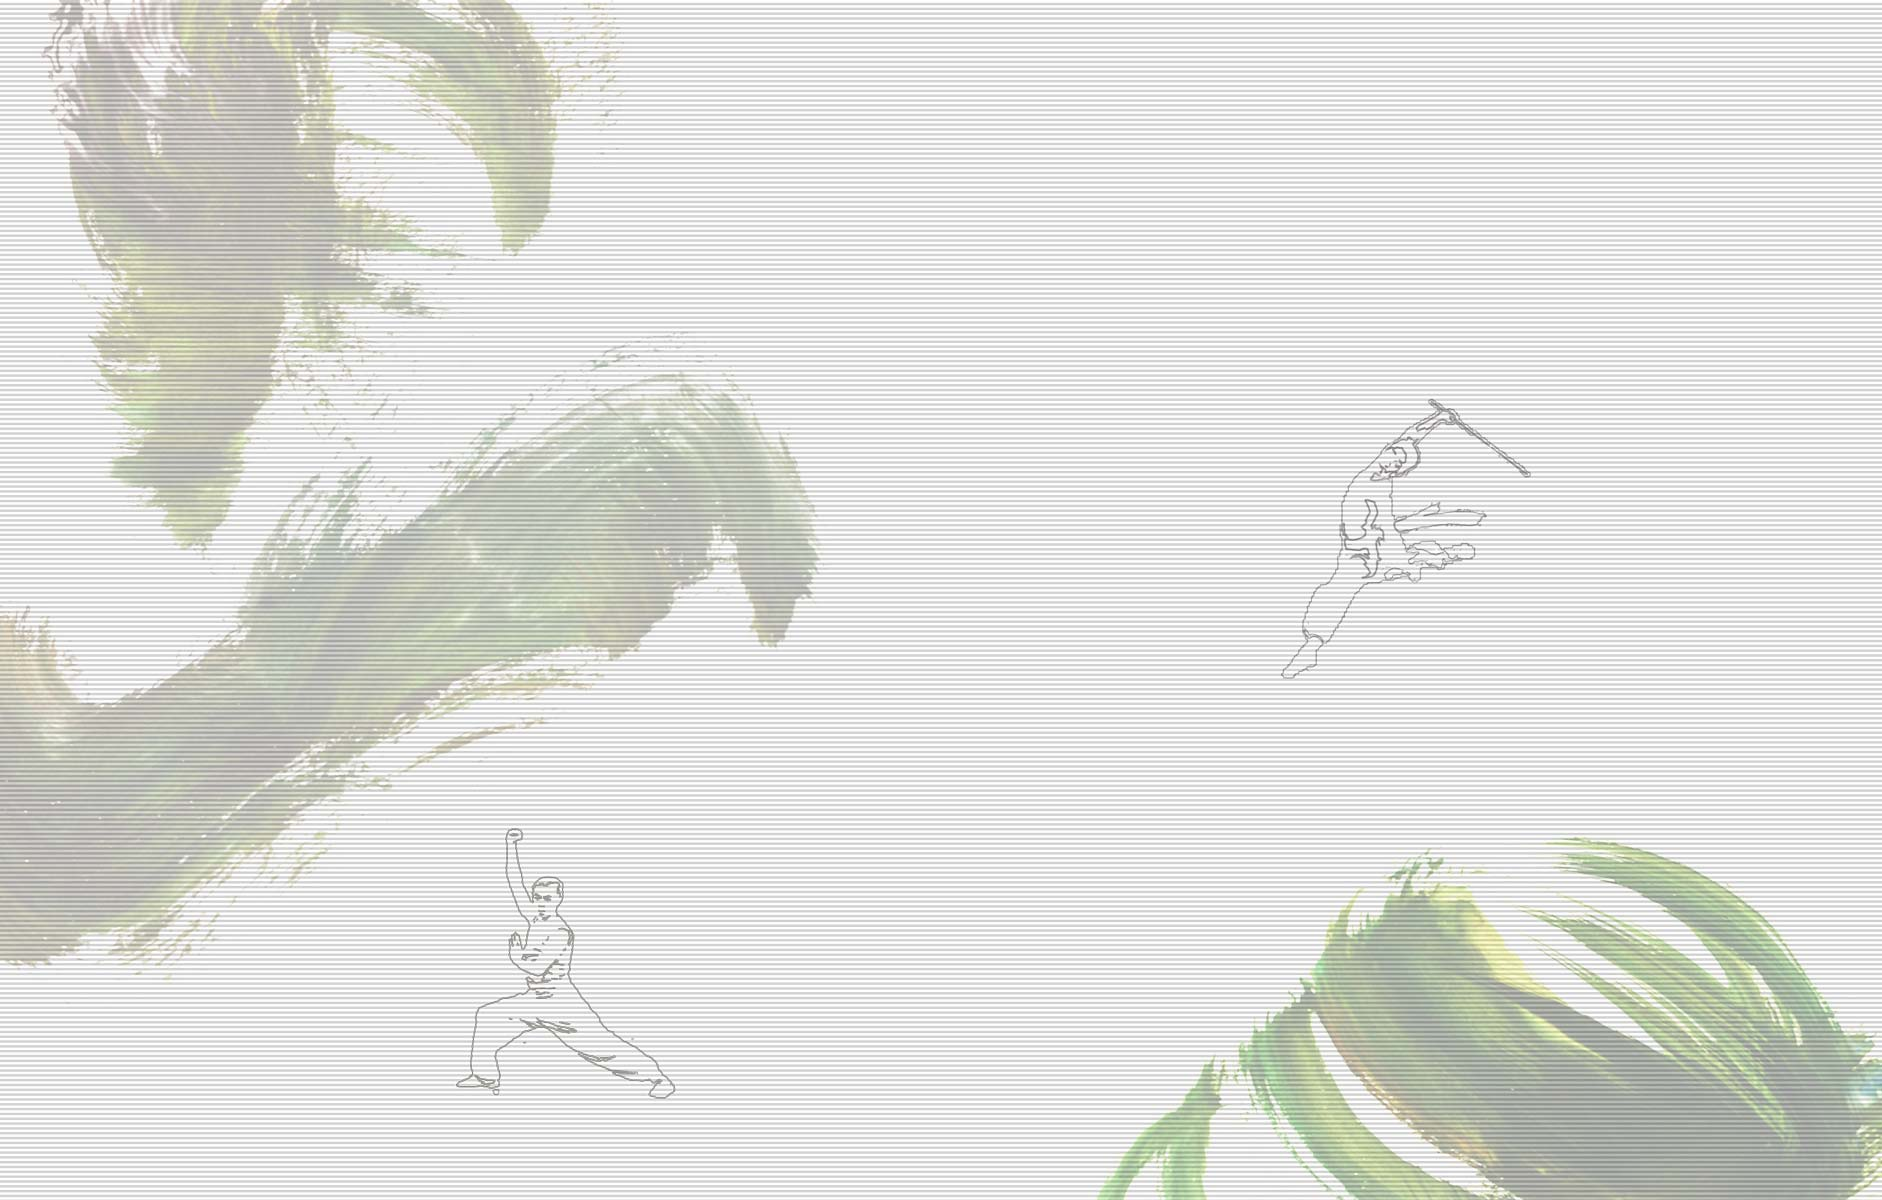
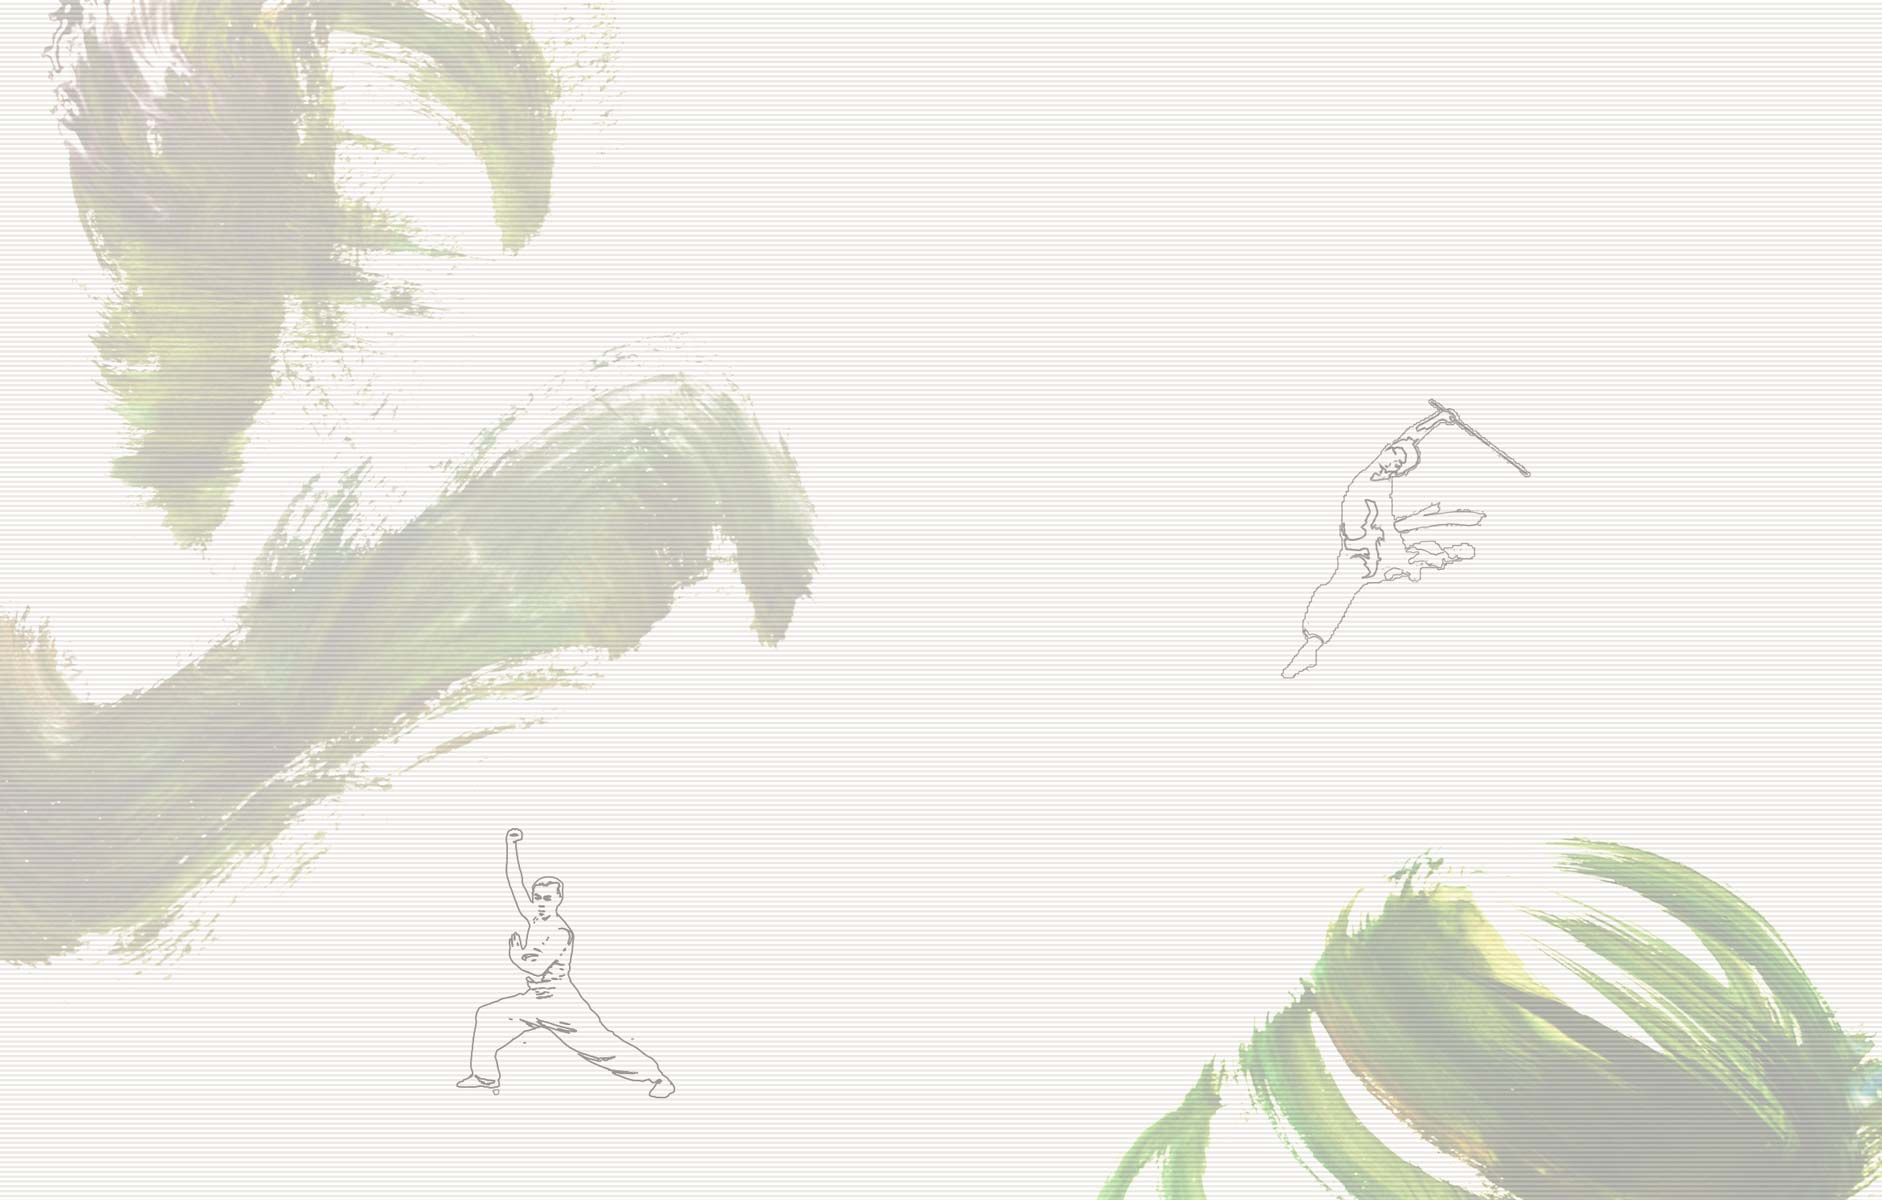
[change] update site-bg.jpg and update _color.css.sass for color defination
淡化 site-bg.jpg 的條紋效果，避免影響閱讀。更新 sass 中的全站色彩定義

Changed region(s): [[0.0, 0.0, 1.0, 1.0], [0.7088, 0.8942, 0.8013, 1.0], [0.9862, 0.9558, 1.0, 1.0]]

diff --git a/source/css/partials/_color.css.sass b/source/css/partials/_color.css.sass
@@ -14,26 +14,26 @@ $c-logo: #474747
 $c-background: #fff
 $c-shadow: #000
 $c-border: #eaeaea
-$c-banner-divider: #c9c9c9
+$c-banner-divider: #888
 
-$c-header-top: #dd647f
+$c-header-top: #90c31f
 $c-banner-top: #898989
-$c-banner-top-border: #ffd2d1
+$c-banner-top-border: lighten($c-header-top, 10%)
 $c-banner-subscribe: $c-red
-$c-nav-border: #bf8ba1
-$c-nav-border-hover: #d72f74
-$c-index-news-title-bg: #985989
-$c-index-news-title-text: #f7b1cd
+$c-nav-border: #1c1a35
+$c-nav-border-hover: $c-header-top
+$c-index-news-title-bg: #909848
+$c-index-news-title-text: #fff
 $c-index-news-date: #7e306b
 $c-index-news-title: #000
 $c-index-news-summary: #333
 $c-index-news-divider: #ddd
-$c-index-fb-title-bg: #79a3b7
+$c-index-fb-title-bg: #385dac
 
 $c-about-title-border: #ddd
 
-$c-footer-bg: #a31f62
-$c-footer-inner-bg: #622759
+$c-footer-bg: $c-header-top
+$c-footer-inner-bg: #167338
 $c-footer-text: #fff
 
 $c-atext: $c-logo
